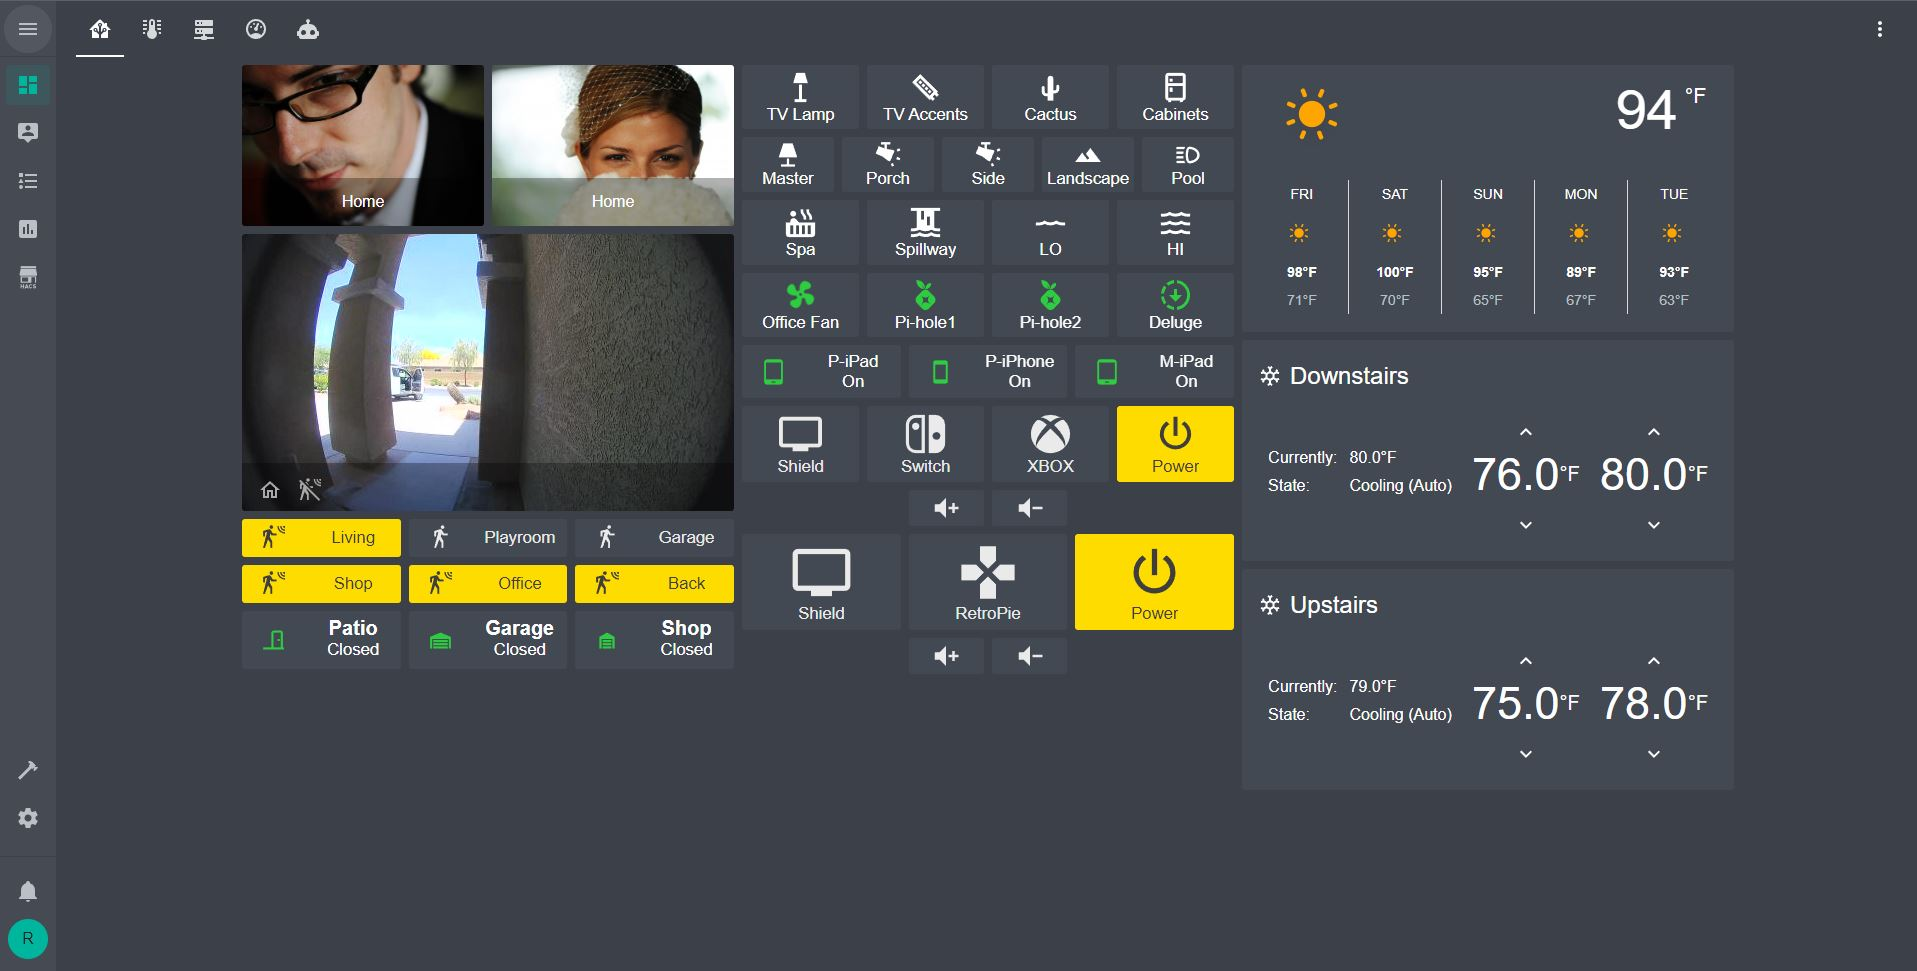
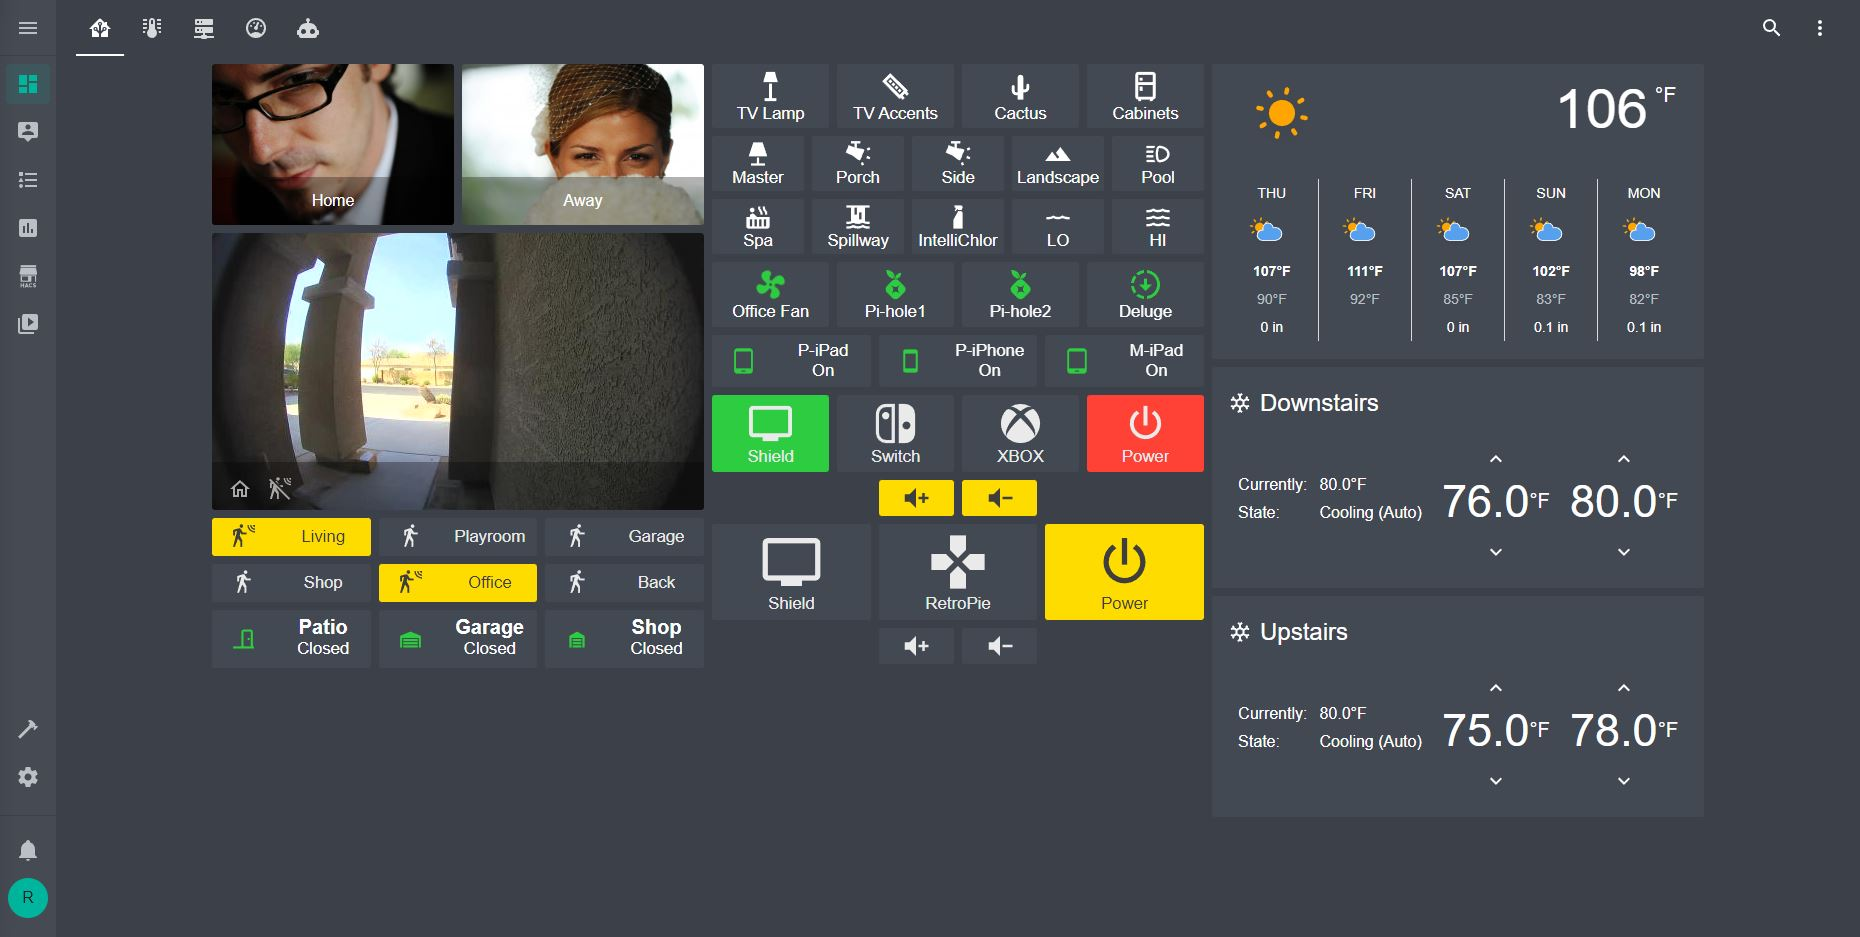
updated images and readme

diff --git a/README.md b/README.md
@@ -17,7 +17,8 @@ This is my <a href="https://home-assistant.io">Home Assistant</a> configuration 
   * [Aeotec Z-Stick Gen5](https://www.amazon.com/gp/product/B00X0AWA6E/ref=as_li_tl?ie=UTF8&camp=1789&creative=9325&creativeASIN=B00X0AWA6E&linkCode=as2&tag=ntalekt0c-20&linkId=04f4c7bf8438a9dee6e4e2ad273405d0)
 * Software
   * [homeassistant/home-assistant](https://hub.docker.com/r/homeassistant/home-assistant)
-    * Home Assistant Version: 2022.4.7
+    * Home Assistant Version: 2022.7.5
+  * [vSphere 7.x](https://docs.vmware.com/en/VMware-vSphere/7.0/rn/vsphere-esxi-vcenter-server-70-release-notes.html)
   * [Docker v20.10.14](https://github.com/docker/docker-ce/releases)
   * [Traefik v2.2.1 proxy](https://www.smarthomebeginner.com/traefik-2-docker-tutorial/)
   * SSL via [Let's Encrypt](https://letsencrypt.org/)
@@ -37,6 +38,8 @@ This is my <a href="https://home-assistant.io">Home Assistant</a> configuration 
 * [LE LampUX RGB Lamp](https://smile.amazon.com/gp/product/B07Q8SMG8R/ref=ppx_yo_dt_b_asin_title_o05_s00?ie=UTF8&psc=1)
 * [Goldwin Wifi Controller](https://smile.amazon.com/gp/product/B07JB5N3Y7/ref=ppx_yo_dt_b_asin_title_o07_s00?ie=UTF8&psc=1)
 * [Pentair IntelliBrite](https://www.pentair.com/en-us/products/residential/pool-spa-equipment/pool-lighting/intellibrite_5g_underwatercolor-changingledpoolandspalights.html)
+* [Govee Outdoor Patio LED](https://www.amazon.com/gp/product/B094JGKBTR/ref=ppx_yo_dt_b_search_asin_title?ie=UTF8&psc=1)
+* [Govee RGBIC Flood Lights](https://www.amazon.com/gp/product/B09MDJV5X5/ref=ppx_yo_dt_b_search_asin_title?ie=UTF8&psc=1)
 
 #### Climate
 * [Trane XL824](https://smile.amazon.com/Trane-Programmable-Comfort-Control-Thermostat/dp/B085W87WY3/ref=sr_1_1?dchild=1&keywords=xl824&qid=1595374599&s=hi&sr=1-1) x2
@@ -59,7 +62,7 @@ This is my <a href="https://home-assistant.io">Home Assistant</a> configuration 
 #### Camera
 * [Amcrest IP3M-943W Camera](https://www.amazon.com/gp/product/B01I01Z1M2/ref=as_li_tl?ie=UTF8&camp=1789&creative=9325&creativeASIN=B01I01Z1M2&linkCode=as2&tag=ntalekt0c-20&linkId=2ef3afe981c97da79ba37bf3815f7347)
 * [Amcrest IPM-HX1W Camera](https://www.amazon.com/gp/product/B077DPWQCV/ref=as_li_tl?ie=UTF8&camp=1789&creative=9325&creativeASIN=B077DPWQCV&linkCode=as2&tag=ntalekt0c-20&linkId=ac62ed590e7bb7ab3e4aca12348c1db1) x4
-* [Hikvision DS-2CD2032-I Camera](https://www.amazon.com/gp/product/B00G7GMEOG/ref=as_li_tl?ie=UTF8&camp=1789&creative=9325&creativeASIN=B00G7GMEOG&linkCode=as2&tag=ntalekt0c-20&linkId=6033949532ab30894bc0ef3dfb3e4757)
+* [Tapo C320WS](https://www.amazon.com/gp/product/B09ZZJB6VX/ref=ppx_yo_dt_b_search_asin_title?ie=UTF8&psc=1)
 * [Ring Pro Doorbell](https://www.amazon.com/gp/product/B01DM6BDA4/ref=as_li_tl?ie=UTF8&camp=1789&creative=9325&creativeASIN=B01DM6BDA4&linkCode=as2&tag=ntalekt0c-20&linkId=5faec88af320aeb157fbb45fa954efc3)
 
 #### Media
